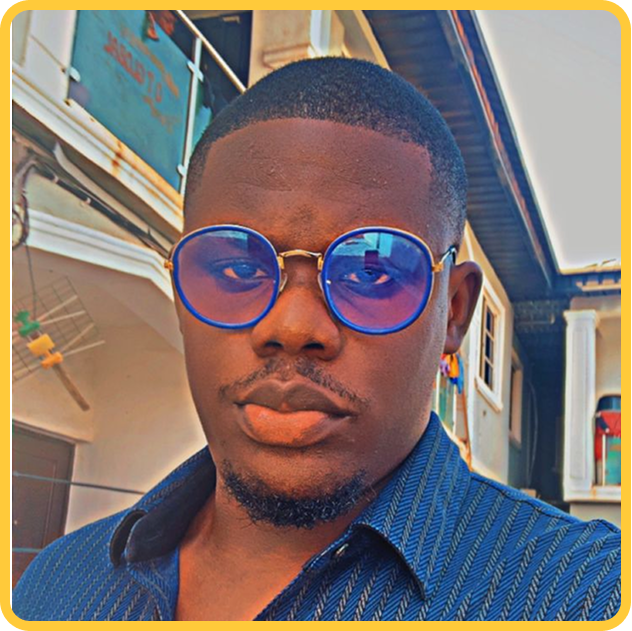
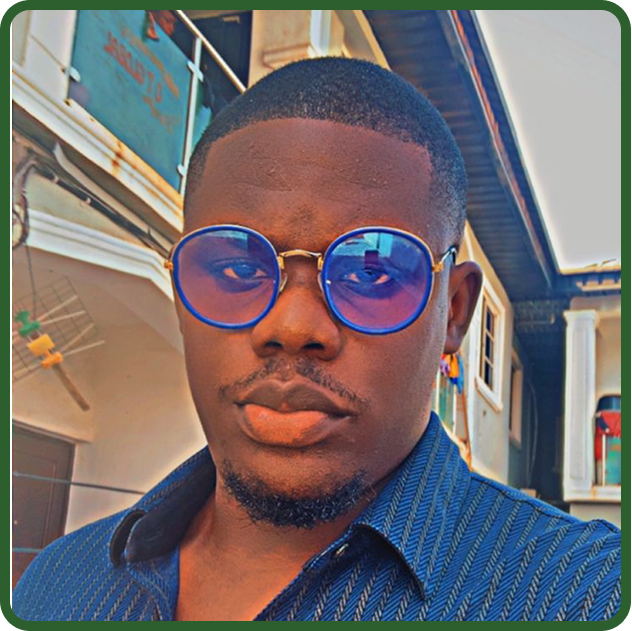
Update images and enhance Header and HeroSection styles for improved layout and responsiveness; adjust AboutOunje and JoinTeamSection components for better text presentation and structure.

Changed region(s): [[0.0, 0.0, 1.0, 1.0]]

diff --git a/src/components/aboutUsSection/TeamSection.tsx b/src/components/aboutUsSection/TeamSection.tsx
@@ -53,33 +53,81 @@ export default function TeamSection() {
     },
   ];
 
+  const [activeIndex, setActiveIndex] = useState(0);
+  const activeMem = teamMembers[activeIndex];
+
+  const nextSlide = () => {
+    setActiveIndex((prev) => (prev + 1) % teamMembers.length);
+  };
+
+  const prevSlide = () => {
+    setActiveIndex(
+      (prev) => (prev - 1 + teamMembers.length) % teamMembers.length
+    );
+  };
+
   // Set Madu's image as the default
   const [activeImage, setActiveImage] = useState(teamMembers[0].image);
   const [activeMember, setActiveMember] = useState(teamMembers[0].id);
 
   return (
-    <section className=" bg-[#2C5E2E] pt-10">
+    <section className=" pt-10">
       {/* title banner */}
-      <div className="h-[50px] md:h-[100px] bg-[#FFCA3A] text-center w-full my-10 items-center flex justify-center">
-        <h1 className="text-black text-lg md:text-4xl  font-bold">
+      <div className="hidden h-[50px] md:h-[100px] bg-[#2C5E2E] text-center w-full my-10 items-center flex justify-center">
+        <h1 className="text-white text-lg md:text-4xl  font-bold">
           Meet The Team
         </h1>
       </div>
       {/* Mobile: Image above the list */}
-      <div className="md:hidden sticky flex justify-center mb-6">
-        <div className="w-[200px] h-[200px] rounded-[20px] overflow-hidden border-4 border-[#FFCA3A] shadow-lg">
-          <img
-            src={activeImage}
-            alt="Team member"
-            className="w-full h-full object-cover"
-          />
+      <div className="md:hidden">
+        <div className="relative flex justify-center mb-6">
+          {/* Image Container */}
+          <div className="w-[300px] h-[300px] rounded-[20px] shadow-lg">
+            <img
+              src={activeMem.image}
+              alt={activeMem.name}
+              className="w-full h-full object-cover"
+            />
+          </div>
+
+          {/* Navigation Arrows */}
+          <button
+            onClick={prevSlide}
+            className="absolute left-4 top-1/2 -translate-y-1/2 py-2 px-3 rounded-[50%] border border-[#2C5E2E] text-[#2C5E2E]  hover:bg-gray-100"
+          >
+            ❮
+          </button>
+          <button
+            onClick={nextSlide}
+            className="absolute right-4 top-1/2 -translate-y-1/2 py-2 px-3 rounded-[50%] border border-[#2C5E2E]  text-[#2C5E2E] hover:bg-gray-100"
+          >
+            ❯
+          </button>
+        </div>
+
+        {/* Mobile: Active Member Info */}
+        <div className="text-center mb-8">
+          <h3 className="text-xl font-bold">{activeMem.name}</h3>
+          <p className="text-[#2C5E2E]">{activeMem.position}</p>
+          <div className="flex justify-center gap-4 mt-2">
+            <a href={activeMem.x}>
+              <img src="/icons/x-logo.png" alt="X" className="w-6 h-6" />
+            </a>
+            <a href={activeMem.linkdln}>
+              <img
+                src="/icons/linkdln-logo.png"
+                alt="LinkedIn"
+                className="w-6 h-6"
+              />
+            </a>
+          </div>
         </div>
       </div>
 
-      <div className="flex flex-col  gap-6 md:gap-8 justify-center items-center">
+      <div className="hidden md:flex flex-col  gap-6 md:gap-8 justify-center items-center">
         {/* Desktop: Image to the left */}
         <div className="hidden md:block sticky top-6 h-fit">
-          <div className="w-[300px] h-[300px] rounded-[20px] overflow-hidden border-4 border-[#FFCA3A] shadow-lg">
+          <div className="w-[300px] h-[300px] shadow-lg">
             <img
               src={activeImage}
               alt="Team member"
@@ -89,7 +137,7 @@ export default function TeamSection() {
         </div>
 
         {/* Team member list */}
-        <div className="w-full md:w-2/3  space-y-3 md:space-y-4 text-white">
+        <div className="w-full md:w-2/3  space-y-3 md:space-y-4 text-[#2C5E2E]">
           {teamMembers.map((member) => (
             <div
               key={member.id}
@@ -112,11 +160,11 @@ export default function TeamSection() {
                   <h3 className="font-bold text-md md:text-lg">
                     {member.name}
                   </h3>
-                  <p className="text-white text-sm md:text-white">
+                  <p className="text-[#2C5E2E] text-sm md:text-[#2C5E2E]">
                     {member.position}
                   </p>
                 </div>
-                <span className="text-white text-sm md:text-white flex gap-2">
+                <span className="text-[#2C5E2E] text-sm md:text-[#2C5E2E] flex gap-2">
                   <a href={member.x}>
                     <img src="/icons/linkdln-logo.png" alt="linkdln logo" />
                   </a>

diff --git a/src/components/HeroSection.tsx b/src/components/HeroSection.tsx
@@ -1,12 +1,12 @@
 const HeroSection = () => (
   <section className="relative h-[420px] md:h-[1000px]">
     {/* Hero content */}
-    <div className="relative z-10 flex flex-col items-center text-center text-black px-3 h-full">
-      <h1 className="text-5xl md:text-[350px] font-bold mb-4 mt-5 md:mt-10 text-[#2C5E2E]">
+    <div className="relative z-10 flex  flex-col items-center text-center text-black pt-5 px-3 h-full">
+      <h1 className="text-6xl md:text-[200px] lg:text-[350px] font-bold mb-2 mt-20 md:mt-20 text-[#2C5E2E]">
         Ounje
       </h1>
-      <div className="flex gap-7 mt-20 text-[12px] md:text-[20px]">
-        <button className="bg-yellow-400 text-black flex justify-center items-center gap-2 md:font-semibold px-3 py-0.5 md:px-5 md:py-2 rounded-[20px] hover:bg-yellow-300 transition">
+      <div className="flex flex-col items-center md:flex-row gap-2 md:gap-7 mt-5 md:mt-20 text-[12px] md:text-[14px] lg:text-[20px]">
+        <button className="bg-yellow-400 text-black flex justify-center items-center gap-2 md:font-semibold w-[200px] h-[39px] md:w-[275px] md:h-[45px] lg:w-[359px] lg:h-[66px]  rounded-[8px] md:rounded-[20px] hover:bg-yellow-300 transition">
           <img
             src="/icons/mage_playstore.png"
             alt="playstore icon"
@@ -14,7 +14,7 @@ const HeroSection = () => (
           />
           <span>Download on Google Play</span>
         </button>
-        <button className="bg-yellow-400 text-black flex justify-center items-center gap-2 md:font-semibold px-3 py-0.5 md:px-5 md:py-2 rounded-[20px] hover:bg-yellow-300 transition">
+        <button className="bg-yellow-400 text-black flex justify-center items-center gap-2 md:font-semibold w-[200px] h-[39px] lg:w-[359px] lg:h-[66px]  rounded-[8px] md:rounded-[20px] hover:bg-yellow-300 transition">
           <img
             src="/icons/apple-icon.png"
             alt="ios-icon"
@@ -23,13 +23,13 @@ const HeroSection = () => (
           <span>Download on APP Store</span>
         </button>
       </div>
-      <p className="mb-6 text-[12px] md:text-[20px] font-small text-black mt-5 md:mt-10">
+      <p className=" mb-2 md:mb-6 text-[12px] md:text-[20px] font-small text-black mt-5 md:mt-10">
         Order Fast. Eat Fresh. Spend Less
       </p>
     </div>
 
     {/* Images positioned at bottom */}
-    <div className="absolute bottom-0 left-0 right-0 flex justify-center space-x-4">
+    <div className="absolute bottom-0 left-0 right-0 flex justify-between ">
       <img
         src="/icons/Street Food-cuate.png"
         alt="Street Food-cuate"

diff --git a/src/components/Header.tsx b/src/components/Header.tsx
@@ -41,20 +41,22 @@ const Header = () => {
 
   return (
     <header className="fixed w-full top-0 z-30 md:flex justify-center items-center bg-transparent">
-      <div className="w-full flex items-center justify-between md:justify-center md:gap-[150px] px-4 py-3">
+      <div className="w-full flex items-center justify-between md:justify-center md:gap-[150px] px-1 py-1 md:px-4 md:py-3">
         {/* Logo */}
-        <div className="w-full flex items-center justify-between md:justify-center md:gap-[50px] lg:gap-[170px] px-4 py-3">
+        <div className="w-full flex items-center justify-between md:justify-center md:gap-[50px] lg:gap-[170px] px-4 md:py-3">
           {/* Logo */}
           <Link
             to="/"
-            className="text-2xl text-black backdrop-blur-sm bg-white/5 rounded-[20px] shadow-xl md:bg-white px-4 md:px-3 py-2 rounded-[20px] flex items-center gap-2 border-[1px] border-black"
+            className="text-2xl text-black backdrop-blur-sm bg-white/5 rounded-[20px] shadow-xl md:bg-white px-4 md:px-3 py-2 md:rounded-[20px] flex items-center gap-2 md:border-[1px] md:border-black"
           >
             <img
               src="/images/ounje-logo.png"
               alt="ounje logo"
-              className="w-[30px] h-[30px]"
+              className="w-[20px] h-[20px] md:w-[30px] md:h-[30px]"
             />
-            <span className="text-[20px] md:text-[18px]">Ounje</span>
+            <span className="text-[15px] md:text-[18px] text-[#2C5E2E]">
+              Ounje
+            </span>
           </Link>
 
           {/* Desktop Nav */}
@@ -89,15 +91,15 @@ const Header = () => {
         </div>
 
         {/* Mobile Menu Button */}
-        <div className=" md:hidden p-0.5 z-50 border border-black rounded-[10px] border-grey backdrop-blur-lg bg-white/10">
+        <div className=" md:hidden p-0.5 z-50 border border-black rounded-[10px] border-[#2C5E2E] backdrop-blur-lg bg-white/10">
           <button
             onClick={() => setIsMenuOpen(!isMenuOpen)}
-            className="md:hidden p-2 text-black hover:text-yellow-400  "
+            className="md:hidden p-1 text-[#2C5E2E] hover:text-yellow-400  "
           >
             {isMenuOpen ? (
-              <X className="h-6 w-6" />
+              <X className="h-5 w-5" />
             ) : (
-              <Menu className="h-6 w-6" />
+              <Menu className="h-5 w-5" />
             )}
           </button>
         </div>

diff --git a/src/components/aboutUsSection/AboutOunje.tsx b/src/components/aboutUsSection/AboutOunje.tsx
@@ -1,20 +1,24 @@
 export default function AboutOunje() {
   return (
     <>
-      <section className="h-[40vh] bg-[#2C5E2E] text-center text-white p-5">
+      <section className="md:h-[40vh] text-center text-[#2C5E2E] p-3 md:p-5">
         <div>
           <h2 className="text-4xl md:text-6xl lg:text-[96px]">Ounje</h2>
-          <p className="text-white mt-5 px-20 pt-[20px]">
-            OUNJE connects you to your favorite local food vendors quickly,
-            affordably, and the way you like it. Born from the need for
-            generous, affordable meals, OUNJE lets you build your own plate just
-            like at your favorite buka from wraps of amala to extra meat and
-            eggs. We work with trusted home chefs and food spots, giving them a
-            way to serve you better while keeping things simple and local. From
-            Pidgin support to seamless delivery, OUNJE is built for everyday
-            Nigerians who want good food without the stress. Na food wey go
-            belleful you.
-          </p>
+          <div className="text-[#2C5E2E] mt-5 md:px-20 px-[10px] pt-[20px]">
+            <p>
+              OUNJE connects you to your favorite local food vendors quickly,
+              affordably, and the way you like it. belleful you.
+            </p>
+            <p>
+              Born from the need for generous, affordable meals, OUNJE lets you
+              build your own plate just like at your favorite buka from wraps of
+              amala to extra meat and eggs. We work with trusted home chefs and
+              food spots, giving them a way to serve you better while keeping
+              things simple and local. From Pidgin support to seamless delivery,
+              OUNJE is built for everyday Nigerians who want good food without
+              the stress. Na food wey go
+            </p>
+          </div>
         </div>
       </section>
     </>

diff --git a/src/components/aboutUsSection/Hero.tsx b/src/components/aboutUsSection/Hero.tsx
@@ -1,17 +1,20 @@
 export default function Hero() {
   return (
     <>
-      <section
-        className="relative top-0 h-[420px] md:h-[100vh] flex items-center justify-center bg-cover bg-center"
-        style={{ backgroundImage: `url(/images/AboutHero-img.png)` }}
-      >
-        {/* overlay */}
-        <div className="absolute inset-0 bg-[#0B3B0D80]" />
-
+      <section className="p-5 mb-20 h-[100vh] md:h-[120vh]">
         {/* content */}
-        <div className="relative inset-0 text-center">
-          <h1 className="font-bold text-white md:text-[128px]">About Us</h1>
-          <span className="text-white">Join us to meet the team</span>
+        <div className=" items-center text-center mt-10">
+          <h1 className="font-bold text-[#2C5E2E] md:text-[128px] mt-20">
+            About Us
+          </h1>
+          <p className="text-[#2C5E2E] mt-10">Join us to meet the team</p>
+          <div className="flex justify-center mt-10">
+            <img
+              src="/images/AboutHero-img.png"
+              alt="about us image"
+              className=" items-center w-[80vw] md:w-[60vw] h-[65vw] lg:h-[80vh]"
+            />
+          </div>
         </div>
       </section>
     </>

diff --git a/src/components/aboutUsSection/JoinTeamSection.tsx b/src/components/aboutUsSection/JoinTeamSection.tsx
@@ -4,7 +4,7 @@ export default function JoinTeamSection() {
   return (
     <>
       <section className="py-10 bg-[#2C5E2E] flex justify-center items-center pb-10 ">
-        <div className="md:w-[60vw] bg-[#FFCA3A] py-5 px-10 rounded-[20px] flex flex-col justify-center items-center gap-1">
+        <div className="md:w-[60vw] w-[90vw] bg-[#FFCA3A] py-5 px-10 rounded-[20px] flex flex-col justify-center items-center gap-1">
           <h2>Join Our Team</h2>
           <p className="text-center">
             Together we can make a difference in serving the nation one plate at

diff --git a/src/pages/HomePage.tsx b/src/pages/HomePage.tsx
@@ -8,7 +8,7 @@ import VendorSection from "../components/VendorSection";
 
 export default function HomePage() {
   return (
-    <div className="bg-[#ECFFED]">
+    <div className="bg-[#ECFFED] overflow-x-hidden">
       <Header />
       <HeroSection />
       <CustomerSection />

diff --git a/src/pages/AboutPage.tsx b/src/pages/AboutPage.tsx
@@ -7,7 +7,7 @@ import Header from "../components/Header";
 
 export default function AboutPage() {
   return (
-    <div className="bg-[#ECFFED]">
+    <div className="bg-[#ECFFED] overflow-x-hidden">
       <Header />
       <Hero />
       <AboutOunje />
